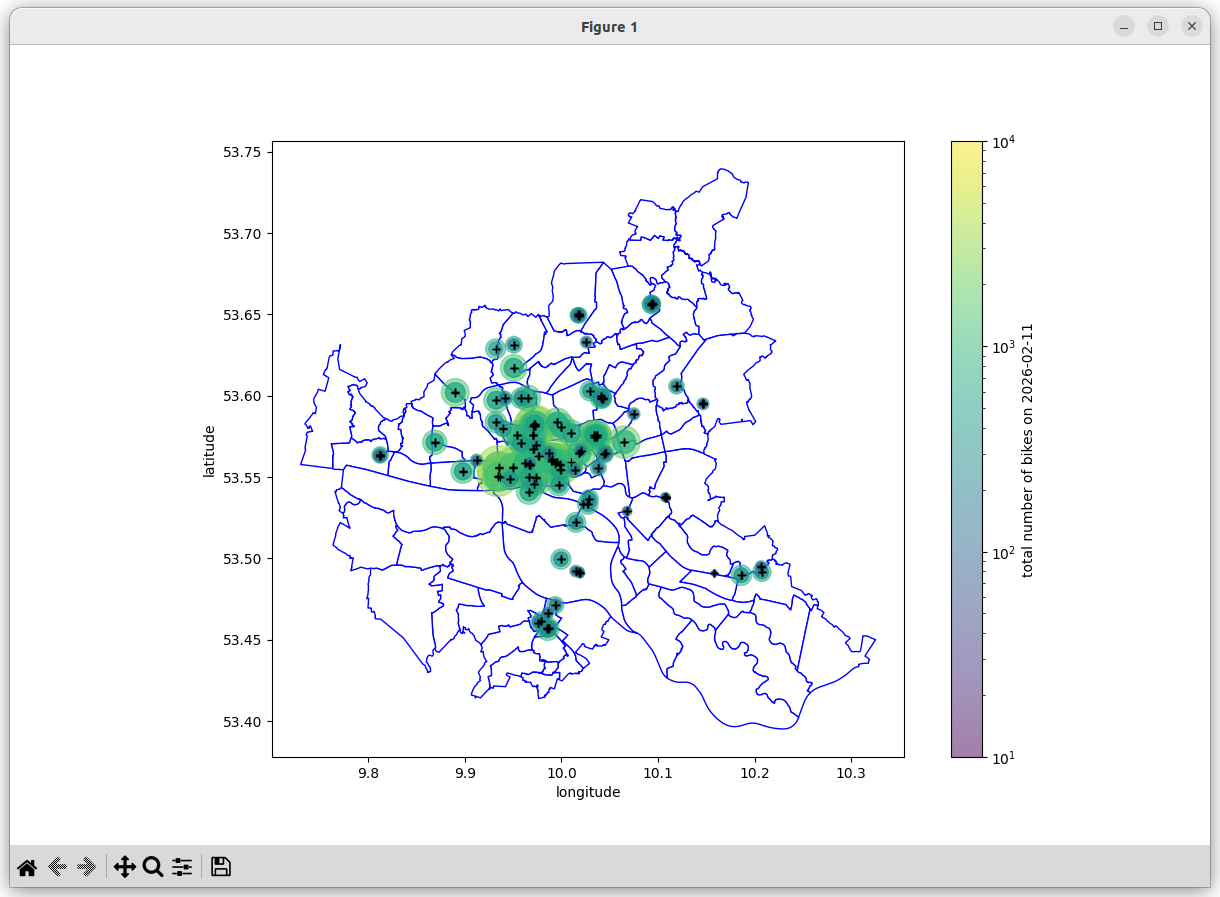
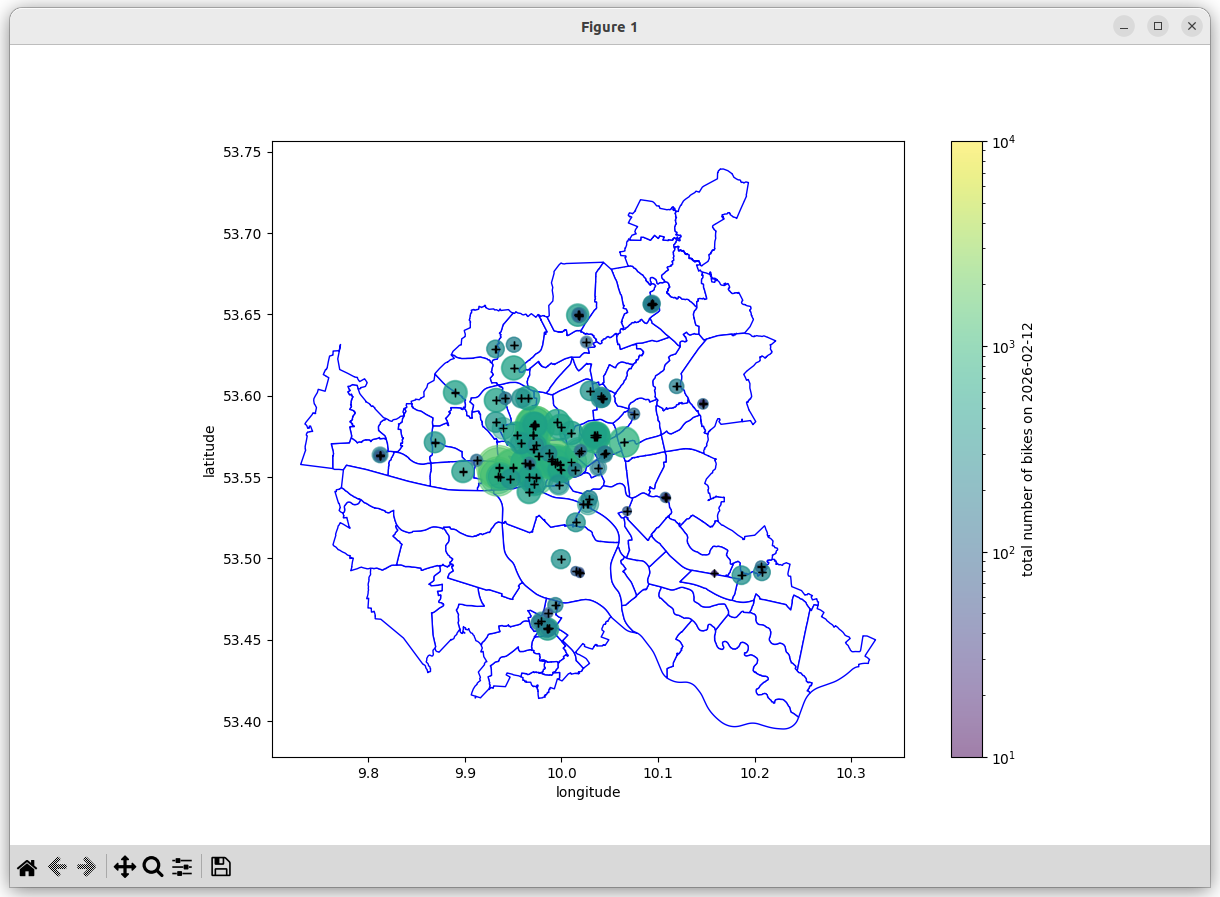
update pictures

diff --git a/plot_radverkehr.py b/plot_radverkehr.py
@@ -161,13 +161,15 @@ def main():
     doit(cur)
     doit2(cur)
 
-    fig,hax = plt.subplots(1)
+    fig,hax = plt.subplots(1, figsize=(12,8))
     timeplot(cur,hax,'2026-02-11')
     timeplot(cur,hax,'2026-02-12')
     timeplot(cur,hax,'2026-02-13')
     timeplot(cur,hax,'2026-02-14')
     timeplot(cur,hax,'2026-02-15')
     timeplot(cur,hax,'2026-02-16')
+    timeplot(cur,hax,'2026-02-17')
+    timeplot(cur,hax,'2026-02-18')
     hax.legend()
     plt.show()
 